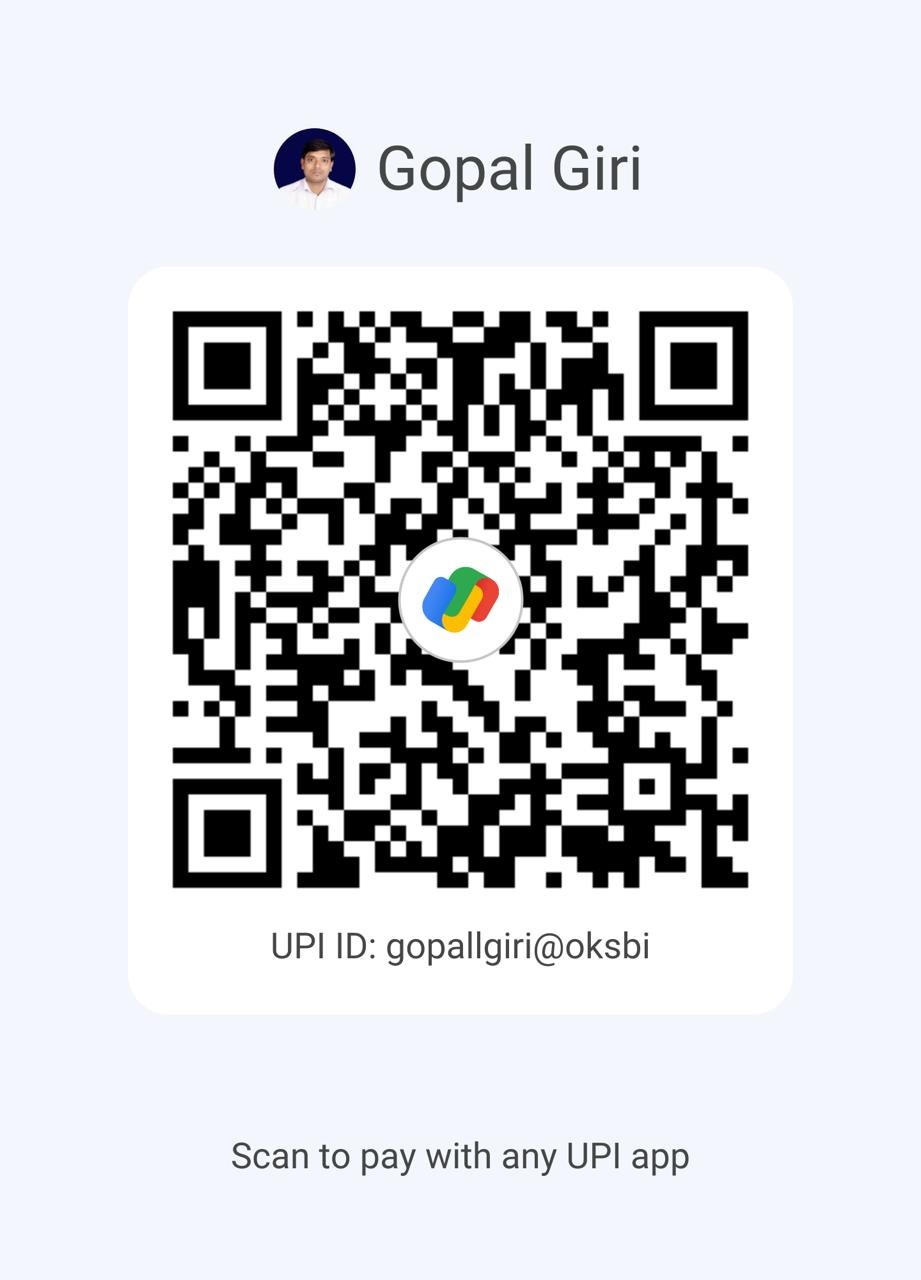
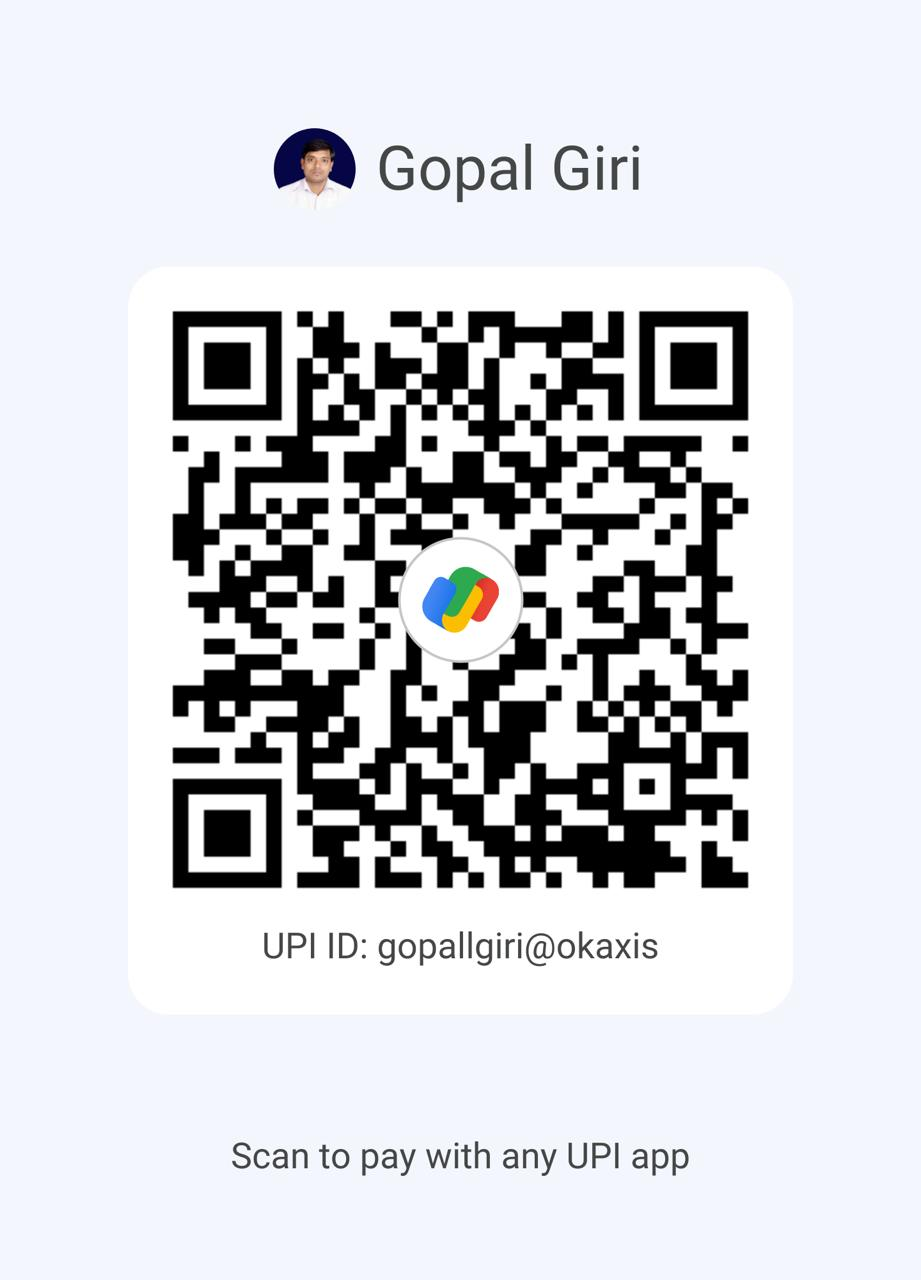
qr code changed

Changed region(s): [[0.1824, 0.2188, 0.8208, 0.75], [0.6688, 0.6562, 0.7296, 0.6875], [0.608, 0.5938, 0.6384, 0.625]]

diff --git a/resources/views/ganpati-booking.blade.php b/resources/views/ganpati-booking.blade.php
@@ -1608,7 +1608,7 @@
                                             <div class="upi-box">
                                                 <div class="upi-copy-group">
                                                     <span class="upi-copy-label">UPI ID</span>
-                                                    <span class="upi-copy-value" data-upi-value>gopallgiri@oksbi</span>
+                                                    <span class="upi-copy-value" data-upi-value>gopallgiri@okaxis</span>
                                                 </div>
                                                 <button class="upi-copy-btn" type="button" data-upi-copy>Copy</button>
                                             </div>
